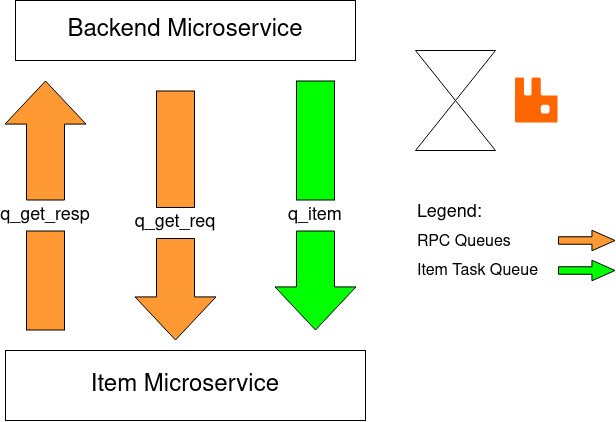
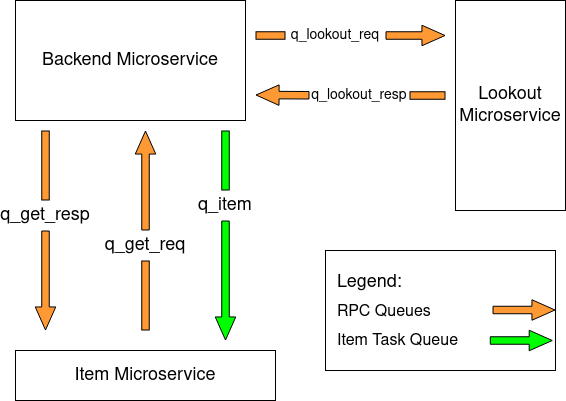
Update devguide and tech docs

diff --git a/content/technical/backend/_index.md b/content/technical/backend/_index.md
@@ -16,6 +16,8 @@ weight: 1
   - [Creating, removing and updating, deleting Items](#creating-removing-and-updating-deleting-items)
     - [Image storage with Imgur](#image-storage-with-imgur)
     - [Synchronising the Search Engine](#synchronising-the-search-engine)
+  - [Smart Lookout Service :star:](#smart-lookout-service-star)
+    - [Examples](#examples)
 - [Appendix A: Backend Design Choices](#appendix-a-backend-design-choices)
   - [Architecture: Microservice](#architecture-microservice)
   - [Platform: Heroku](#platform-heroku)
@@ -48,11 +50,13 @@ This is a list of the technologies that we have used to build the backend.
 - Bonsai ElasticSearch (Search Engine)
 - Firebase (Authentication)
 - Imgur (3rd Party API)
+- SMTP (Outlook Email Server)
+- Prose (Golang NLP library)
 
 [^2]: A message broker is needed to communicate between docker containers. This is a heroku perculiarity as the docker containers cannot talk to each other via HTTP due to security policy. In industry, message brokers are often used to coordinate work as well.
 
 # High-Level Overview
-![Backend Arch](./backend_250622.png)
+![Backend Arch](./backend.png)
 
 This figure shows how the backend roughly works as a whole unit to provide the backend API for FindNUS' business logic. 
 As of Milestone 2, we deployed **2 microservices**, backend and item. 
@@ -114,11 +118,11 @@ In summary, using RabbitMQ, we defined three **queues** to send our own messages
 **Item Queue `q_item`**  
 Handles one-off messages that require no return response, such as POST and DELETE.  
 
-**Remote Proceedure Call (RPC)[^3] Queue `q_get_req, q_get_resp`**   
+**Remote Proceedure Call (RPC)[^3] Queue `q_get_req, q_get_resp, etc`**   
 Handles messages that require a return response, such as GET and search queries.
 [^3]: A RPC is something like a synchronous GET request. It enables two computers in seperate locations to send information to each other. [A primer if you are interested](https://www.geeksforgeeks.org/remote-procedure-call-rpc-in-operating-system/)
 
-The below image illustrates the communciation pipelines between the 2 microservices using RabbitMQ.  
+The below image illustrates the communciation pipelines between the various microservices using RabbitMQ.  
 
 ![Message Queue Overview](./mq.png)
 
@@ -191,6 +195,134 @@ func ElasticAddItem(item ElasticItem) {
 	log.Println("Add item response:", res)
 }
 ```
+## Smart Lookout Service :star:
+A "**Smart Lookout Service**" was added in Milestone 3.  
+  
+Its function is to help Losters look through the dozens of found items and intelligently find Found items that match the Loster's lost item.  
+
+It uses **Natural Language Processing** to convert a Lost Item into a text-searchable query before sending it to a specially tuned ElasticSearch query to find good matches for the Lost item. We are using [`prose`](https://github.com/jdkato/prose), a NLP library for `go`.
+
+A Lost (and found) item's data structure looks like this on MongoDB: 
+```go  
+type Item struct {
+	Id              primitive.ObjectID 
+	Name            string
+	Date            time.Time
+	Location        string
+	Category        string
+	Contact_method  string
+	Contact_details string
+	Item_details    string
+	Image_url       string
+	User_id         string 
+	Lookout         bool   
+}	
+```
+But how do we use NLP on this schema?  
+
+First, we strip away all irrelevant terms that may dirty our search. So, irrelevant things like contact_details and user_id are removed.   
+```go
+type Item struct {
+	Name            string
+	Location        string
+	Category        string
+	Item_details    string
+}	
+```  
+We then concatenate these fields into a long string, delimited by a fullstop '.' in order for the NLP tokenizer to recognise the different fields as different sentences.  
+```go
+item Item // an item of struct Item we want to process
+rawString := strings.ToUpper(item.Name)
+rawString += ". " + item.Category
+rawString += ". " + item.Item_details
+rawString += ". " + strings.ToUpper(item.Location) // Force prose to recognise this as an entity
+```
+
+We then use `prose` and feed in our prepared string to process out the keywords. We use `prose` to identify important features of the string - entities (people, places), nouns and adjectives.  
+
+```go
+doc, _ := prose.NewDocument(rawString)
+	query := ""
+	// Entities hold more weight than descriptive tokens, so add them in as duplicates
+	ents := doc.Entities()
+	for _, ent := range ents {
+		query += " " + ent.Text
+	}
+	toks := doc.Tokens()
+    // Filter for keywords
+	for _, tok := range toks {
+		// Take in all the nouns
+		if tok.Tag == "NN" || tok.Tag == "NNS" || tok.Tag == "NNPS" || tok.Tag == "NNP" {
+			query += " " + tok.Text
+		} else if tok.Tag == "JJ" || tok.Tag == "JJR" {
+			// As well as the adjectives
+			query += " " + tok.Text
+		}
+	}
+```  
+
+The keywords that we are interested in are **Nouns** of all forms and **adjectives**. This is because key identifiers for a Lost and Found item lie in nouns and adjectives.  
+
+### Examples
+
+**Input**:
+```json
+{
+    "Name": "Wireless Mouse",
+    "User_id": "19fa21",
+    "Date": "2022-04-16T20:02:30Z",
+    "Location": "Central Library",
+    "Category": "Electronics",
+    "Item_details": "i found a logitech mouse at CLB level 2 in one of the cubicles."
+}
+```
+**Output**:
+```text
+WIRELESS MOUSE CLB WIRELESS MOUSE Electronics logitech mouse CLB level cubicles CENTRAL LIBRARY
+```
+
+**Input**:
+```json
+{
+    "Name": "Nalgene Water bottle",
+    "User_id": "19fa21",
+    "Date": "2022-05-26T08:51:48.782Z",
+    "Location": "Digital Systems Lab",
+    "Category": "Bottles",
+    "Image_url": "https://upload.wikimedia.org/wikipedia/commons/0/07/Multi-use_water_bottle.JPG",
+    "Item_details": "I lost my nalgene bottle during peak hour at the lab. The bottle has a sticker on it and it's handle is broken",
+    "Contact_details": "@FindNUS",
+    "Contact_method": "Line"
+}
+```
+**Output**:
+```text
+NALGENE WATER BOTTLE Bottles NALGENE WATER BOTTLE Bottles nalgene bottle peak hour lab bottle sticker handle DIGITAL SYSTEMS LAB
+```
+
+This processed text is important as it will give us **relevant** ElasticSearch results. When we ignore common filler words like `the`, `a`, `I`, we are sure that the ElasticSearch results are due to the keywords.  
+
+With the keyword string, we tune our ElasticSearch query to look for close matches.  
+
+
+We make use of [`combined_fields`](https://www.elastic.co/guide/en/elasticsearch/reference/current/query-dsl-combined-fields-query.html#query-dsl-combined-fields-query) type of matching, where the query spans across multiple fields. Better matching items (more keyword hits) are given a higher score in the ElasticSearch algorithm.  
+
+```golang
+// In the ElasticSearch database, the Item data structure is the same as the `Item` struct defined above.  
+mmq := elastic.NewMultiMatchQuery(
+		qry,
+		"Name", "Location", "Item_details", "Category",
+	)
+mmq.Type("combined_fields")
+// Min match 3 clauses, 1 for category, 2 for others
+// This filters out weakly matching items
+mmq.MinimumShouldMatch("3")
+mmq.FieldWithBoost("Name", 3) // Name matches are more significant
+mmq.FieldWithBoost("Item_details", 2) // Item_detail matches catch 'hidden' significant keywords
+```
+
+With that, we are able to process Lost Items for their keywords and search for appropriate matching Items. This automates the manual Loster process of having to scan through our website (or anywhere else) to search for possible Found items that are their lost item.   
+
 # Appendix A: Backend Design Choices 
 The following was initially documented with references in Milestone 1. As it is important technical information, it is brought over here for documentation sake. [Link to the original document](https://drive.google.com/file/d/1X4n5IalejDChWyBY_rGtnBOd1qMa3wq_/view?usp=sharing). 
 
@@ -268,32 +400,32 @@ We compared between three communication protocols that define how isolated conta
 |Message stability|Messages can get lost and is unrecoverable|Message loss is recoverable due to TCP handshake protocol|Messages are persistent and guaranteed to be delivered|
 
 
-Since Heroku does not provide support for REST architecture for inter-container communication, we are forced to use RPC and Message Queuing, which is the recommended way to do so (w.r.t. footnote 12). To use RPC &/or MQ, we need a message broker. We chose CloudAMQP (RabbitMQ) as it has extensive documentation on integration with Heroku20. 
+Since Heroku does not provide support for REST architecture for inter-container communication, we are forced to use RPC and Message Queuing, which is recommended by Heroku. To use RPC &/or MQ, we need a message broker. We chose CloudAMQP (RabbitMQ) as it has extensive documentation on integration with Heroku. 
 
-RabbitMQ is flexible – it allows us to use message queues and RPC21. Rather than stick to one communication protocol, we plan to use both RPC and MQ as both protocols are best suited for certain use cases. 
+RabbitMQ is flexible – it allows us to use message queues and RPC. Rather than stick to one communication protocol, we plan to use both RPC and MQ as both protocols are best suited for certain use cases. 
 
 **RPC: Searching**. RPC is very fast compared to the other protocols. This makes it suitable for short-lived operations that require quick responses, such as searching and autocompletion (Elasticsearch API calls). Even if the message is lost, it is tolerable in the case of autocompletion and just-in-time searching. 
 
-**MQ: Database CRUD**. There are certain operations that need stability and data persistence. When submitting LNF requests/items, the end-user is likely to only POST the request once and leave the application. We cannot afford the situation where a user submits an item request/registration, but the message gets lost halfway in the backend and the item is not registered in the database. MQs can be configured to guarantee delivery and data persistence22, this adds stability to the CRUD process which is critical to the Lost-and-found process. 
+**MQ: Database CRUD**. There are certain operations that need stability and data persistence. When submitting LNF requests/items, the end-user is likely to only POST the request once and leave the application. We cannot afford the situation where a user submits an item request/registration, but the message gets lost halfway in the backend and the item is not registered in the database. MQs can be configured to guarantee delivery and data persistence, this adds stability to the CRUD process which is critical to the Lost-and-found process. 
 
 ## Search Engine: Elasticsearch 
 
 Elasticsearch (ES) was chosen as the search engine for our application due to the nature of our LNF item schema. Effective searches for lost items rely heavily on string-based parameters such as its name and item details. Further, the “Item_details” is effectively full text, where the users write a long description of the item which allows for flexibility in registering LNF items. For example, an item detail can be: “the bottle’s handle is broken, and it has a NUS sticker on it”. 
 
-**Full-text search**. ES was built with text searching in mind23. It is optimised for indexing and searching through large bodies of text, such as the “Item_details” parameter. Although it is entirely possible to use full-text searches on SQL and even MongoDB, it is far simpler and to implement via ES. Most importantly, ES outperforms24 other competitors in querying speed. 
+**Full-text search**. ES was built with text searching in mind23. It is optimised for indexing and searching through large bodies of text, such as the “Item_details” parameter. Although it is entirely possible to use full-text searches on SQL and even MongoDB, it is far simpler and to implement via ES. Most importantly, ES outperforms other competitors in querying speed. 
 
 ## Language: Golang 
 
 Golang is a widely used server-side language. Compared to other languages, we chose Golang for the following reasons: 
 
-1. Golang is a relatively fast25 server-side language.  
-2. Easy to use HTTP server library that is concurrent26 by nature. 
+1. Golang is a relatively fast server-side language.  
+2. Easy to use HTTP server library that is concurrent by nature. 
     (https://github.com/gin-gonic/gin) 
     Unit-testing is built into the language and is simple to make and run.  
 
 ## Image storage: Imgur 
 
-Images tell a thousand words, which is why we included Images as part of the schema to submit a new item to the LNF database (Annex C). It is easier to identify lost items from pictures than wordy text. However, images take up a lot of space. To estimate storage requirements, we assumed that an average smartphone takes 12MP images which is about 3.6MB28 per photo.  Our free-tier MongoDB has a storage limit of 512MB. If we only used it to store images, we can fit approximately 142 images, which is very small. 
+Images tell a thousand words, which is why we included Images as part of the schema to submit a new item to the LNF database (Annex C). It is easier to identify lost items from pictures than wordy text. However, images take up a lot of space. To estimate storage requirements, we assumed that an average smartphone takes 12MP images which is about 3.6MB per photo.  Our free-tier MongoDB has a storage limit of 512MB. If we only used it to store images, we can fit approximately 142 images, which is very small. 
 
 The above estimation discounts the fact that smartphone cameras are getting even more powerful, with the upper limit going as high as 108MP (approx. 30MB/photo). Even if we use lossy compression, the disk space required by photos will still be in the order of megabytes. Hence, we cannot afford to directly store images on our backend servers. 
 

diff --git a/content/_index.md b/content/_index.md
@@ -1,9 +1,27 @@
 # FindNUS README :telescope:
+**By Team Lost Engineers**,
+- [Jin Xuan](https://github.com/jinxuan-owyong) (Frontend)
+- [Nicholas](https://github.com/nichyjt) (Backend)
+# Foreword & Introduction
+Welcome to the FindNUS **documentation** website! This is a living document showcasing our team's efforts during Summer 2022.    
+
+We would like to take this opportunity to express our gratitude to Prof. Jin Zhao for giving us this opportunity to take up Orbital. His enthusiasm and care for the students under Orbital made the experience memorable and meaningful. We are greatly appreciative of his timely reminders and many opportunities provided to level-up our software engineering and computing skills thorugh the Mission Controls.    
+
+We would also like to thank our mentor Ruiping Liu for taking time out of his busy schedule to mentor us for this project. His sharp insights and industry knowledge helped identify gaps in our understanding and guide us to develop a technically comprehensive project. Mentor Ruiping was truly a force multiplier in this project, as his critical appraisal helped give FindNUS the technical edge that we believe squares up to industry standards. 
+
+To our user testers, fellow peer evaluators and our Advisor Hardik Narang, thank you. Thank you for your feedback and time spent analysing our project. Your feedback is invaluable and helped push FindNUS' development. Without it, FindNUS' development would surely be lacking. We wish the best of luck to our fellow peer evaluators for the smooth evaluation of their projects.
+
+# Table of Contents
 - [FindNUS README :telescope:](#findnus-readme-telescope)
 - [Foreword & Introduction](#foreword--introduction)
+- [Table of Contents](#table-of-contents)
   - [Quickstart](#quickstart)
+  - [Proposed Level of Achievement](#proposed-level-of-achievement)
   - [Deployments](#deployments)
-  - [Proposed Level of Achievement: Artemis](#proposed-level-of-achievement-artemis)
+  - [Codebase](#codebase)
+  - [Poster](#poster)
+  - [Features](#features)
+    - [Edge Features](#edge-features)
 - [Motivation - Why FindNUS?](#motivation---why-findnus)
 - [Project Scope](#project-scope)
 - [User Guide](#user-guide)
@@ -14,22 +32,58 @@
   - [Milestone 2](#milestone-2)
   - [Milestone 3](#milestone-3)
 
-# Foreword & Introduction
-Welcome to the FindNUS **documentation** website.  
-This site is not only meant for Orbital evaluation. It is also intended to serve as a living technical document for Users and Developers to refer to, as well as to document our team's work, thought processes and learning in this Project.
-
 ## Quickstart
 You are a...  
 ***User*** wondering how to navigate FindNUS? [Click here.](/userguide/)  
 ***Developer*** wondering how to work on FindNUS? [Click here.](/devguide/)  
 ***Employer*** interested in FindNUS's user research and design ? [Click here.](/problem)    
-***Architect/Team Lead*** interested in the inner workings + engineering practices of FindNUS? [Click here.](/technical/)  
+***Software Engineer*** interested in the inner workings + engineering practices of FindNUS? [Click here.](/technical/)  
 ***Evaluator*** for Orbital? [Start here.](#project-scope)   
 
+## Proposed Level of Achievement
+FindNUS aims to achieve **Artemis** level.  
+
 ## Deployments
-FindNUS is live @ [findnus.netlify.app](https://findnus.netlify.app). If you are here to try FindNUS out, click on the link!
-## Proposed Level of Achievement: Artemis
-FindNUS aims to attain the **Artemis** level of achievement. 
+FindNUS is live @ [findnus.netlify.app](https://findnus.netlify.app). If you are here to try FindNUS out, click on the link!   
+Staging (User Acceptance Testing) Environment @ [transcendent-beijinho-1ca1f9.netlify.app](https://transcendent-beijinho-1ca1f9.netlify.app) if you're interested in that instead.  
+
+## Codebase
+[Our github repository](https://github.com/FindNUS).
+
+## Poster
+
+## Features
+1. **Authentication (OTP)**  
+    
+    Users who want to submit a lost item will need to create an account. The Loster dashboard and lost item submission pages are protected routes that will only allow access if the user has been authenticated & has an account with FindNUS 
+
+2. **Filter Preview by Category**
+3. **Creation of Lost/Found Item**
+4. **Loster User Dashboard**
+5. **Editing & Deleting details of Lost item**  
+
+    Users can edit and delete their lost item in their dashboard
+
+6. **Stupid Simple Searching (SSS)** for Found items   
+
+    Users can intuitively just search for whatever on the searchbar. SSS is able to handle **minor typos** and knows how to handle your query. No need for joining queries or fumbling with logical AND/OR operators.  
+
+7. **Item Preview on Homepage**
+
+### Edge Features 
+These are additional features we developed for Milestone 3.
+1. **Map Display**  
+   
+2. **NLP-powered Lookout Service**  
+
+    Let FindNUS search for you on-demand. Based on your lost item, FindNUS uses NLP and ElasticSearch magic to find found items that are possible matches for your lost item. 
+3. **Subscribe to Lookout Email Notifications**
+    
+    Based on our lost item that you subscribed to, FindNUS will periodically search using the Lookout Service for possible item matches, and email you about them.  
+4. **More robust preview filtering**  
+    
+    Some users may want to narrow down the preview filters. We added the option of filtering preview results by date and allowing larger pagination values  
+5. **Email verification**
 
 # Motivation - Why FindNUS?
 FindNUS was created because we feel that the current Lost and Found (LNF) system in NUS **sucks**.  

diff --git a/content/devguide/_index.md b/content/devguide/_index.md
@@ -23,7 +23,8 @@ emojify: true
   - [Secrets Management](#secrets-management)
 - [Pull Request (PR) Etiquette](#pull-request-pr-etiquette)
 # Introduction
-Want to contribute and work on FindNUS? This is the guide for you.
+Want to contribute and work on FindNUS? This is the guide for you.  
+This guide covers how to setup the development environment for the Frontend and Backend respectively.  
 
 
 # Frontend
@@ -49,7 +50,6 @@ npm install
 <div align="right"><a href="#table-of-contents">Back to top</a></div>
 
 # Backend
-To work on backend features and bugfixes, the first thing you want to do is set up the development environment
 ## Installation Guide
 ### Pre-requisite: Golang
 You need to have golang >=1.18 installed.
@@ -124,7 +124,7 @@ func TestAdd(t *testing.T){
 The above is a trivial test case for demonstration purposes. **It is not rigorous enough for production** You should ideally design your testcases to cover all sorts of edge cases. If you need to use a file to store testcase data, simply make a `test` directory within `internal/{Microservice Name}` and store your txt/json/whatever data there. You can get inspiration from [here](/technical/unittesting/).  
 
 ## Secrets Management
-Secrets are exposed to the Docker container via enviroment variables.  
+Secrets are exposed to the Docker container via environment variables.  
 
 - If you are adding features that need secrets such as an API key, ping the maintainer to have it registered under the official findnus email and to be added to the repository secrets list on Github.
 - Update the following files to ensure that the secrets are being passed to the program at Deploy time

diff --git a/content/ms2/swe/_index.md b/content/ms2/swe/_index.md
@@ -17,7 +17,7 @@ weight: 1
     - [Continuous Delivery](#continuous-delivery)
 - [Backend](#backend)
   - [API Documentation](#api-documentation)
-    - [README: Backend Milestone 2 API Documentation](#readme-backend-milestone-2-api-documentation)
+    - [README: Backend REST API documentation](#readme-backend-rest-api-documentation)
   - [Unit Testing](#unit-testing-1)
   - [CI/CD](#cicd-1)
     - [Continuous Integration](#continuous-integration-1)
@@ -70,11 +70,11 @@ Upon merging, the target branch is automatically built and deployed.
 # Backend
 
 ## API Documentation
-### [README: Backend Milestone 2 API Documentation](./apisample/)  
+### [README: Backend REST API documentation](./apisample/)  
 Good API documentation is good SWE practice for backend. It reduces ambiguity in API usage and is important for knowledge retention for when new developers come and old developers go. This industry standard also makes it possible for computers to know how to interface with the API. 
 We documented the backend API using the [**OpenAPI3** specification](https://swagger.io/specification/). 
 
-Snippet of how the YAML OpenAPI3 specs look like:
+Snippet from our yaml docs on how the OpenAPI3 specs can look like:
 ```yaml
 paths:
   /item:

diff --git a/content/scope/_index.md b/content/scope/_index.md
@@ -94,12 +94,10 @@ In this milestone we aimed to increase the **complexity** of our project by maki
 - Item update and deletion 
 - UI improvements
 
-
 ## Backend 
-- Creation of **Lookout** smart service using NLP technology  
-- Creation of Email subscription service 
-- Integration of geolocation data
+- Creation of [**Lookout** smart service](http://localhost:1313/technical/backend/#smart-lookout-service-star) using Natural Language Processing technology  
+- Creation of Email subscription service as an add-on to the Lookout service
+- Integration of geolocation data in database schema
 
-# Beyond Orbital
-// TODO WIP     
+# Beyond Orbital 
 Beyond Orbtial, we aim to launch FindNUS for actual use and see how it performs under real-world usage. If we have enough data, we can look into expanding FindNUS to do things such as detect spam :robot: from ham :meat_on_bone: in the item submission, as well as see how we can leverage QR codes around lost hotspots in campus to quickly submit items on-the-go.  

diff --git a/content/technical/_index.md b/content/technical/_index.md
@@ -12,7 +12,7 @@ This section details the technical nitty-gritty of FindNUS:
 ### [Frontend Overview](/technical/frontend)
 This section covers the architectural and logic flow for the frontend
 
-### [Backend Overview](/technical/backed)
+### [Backend Overview](/technical/backend)
 This section covers the architectural overview for the RESTful API Backend and the various integrations of technologies, from MongoDB to ElasticSearch.
 
 ### [User Testing](/technical/usertesting)
